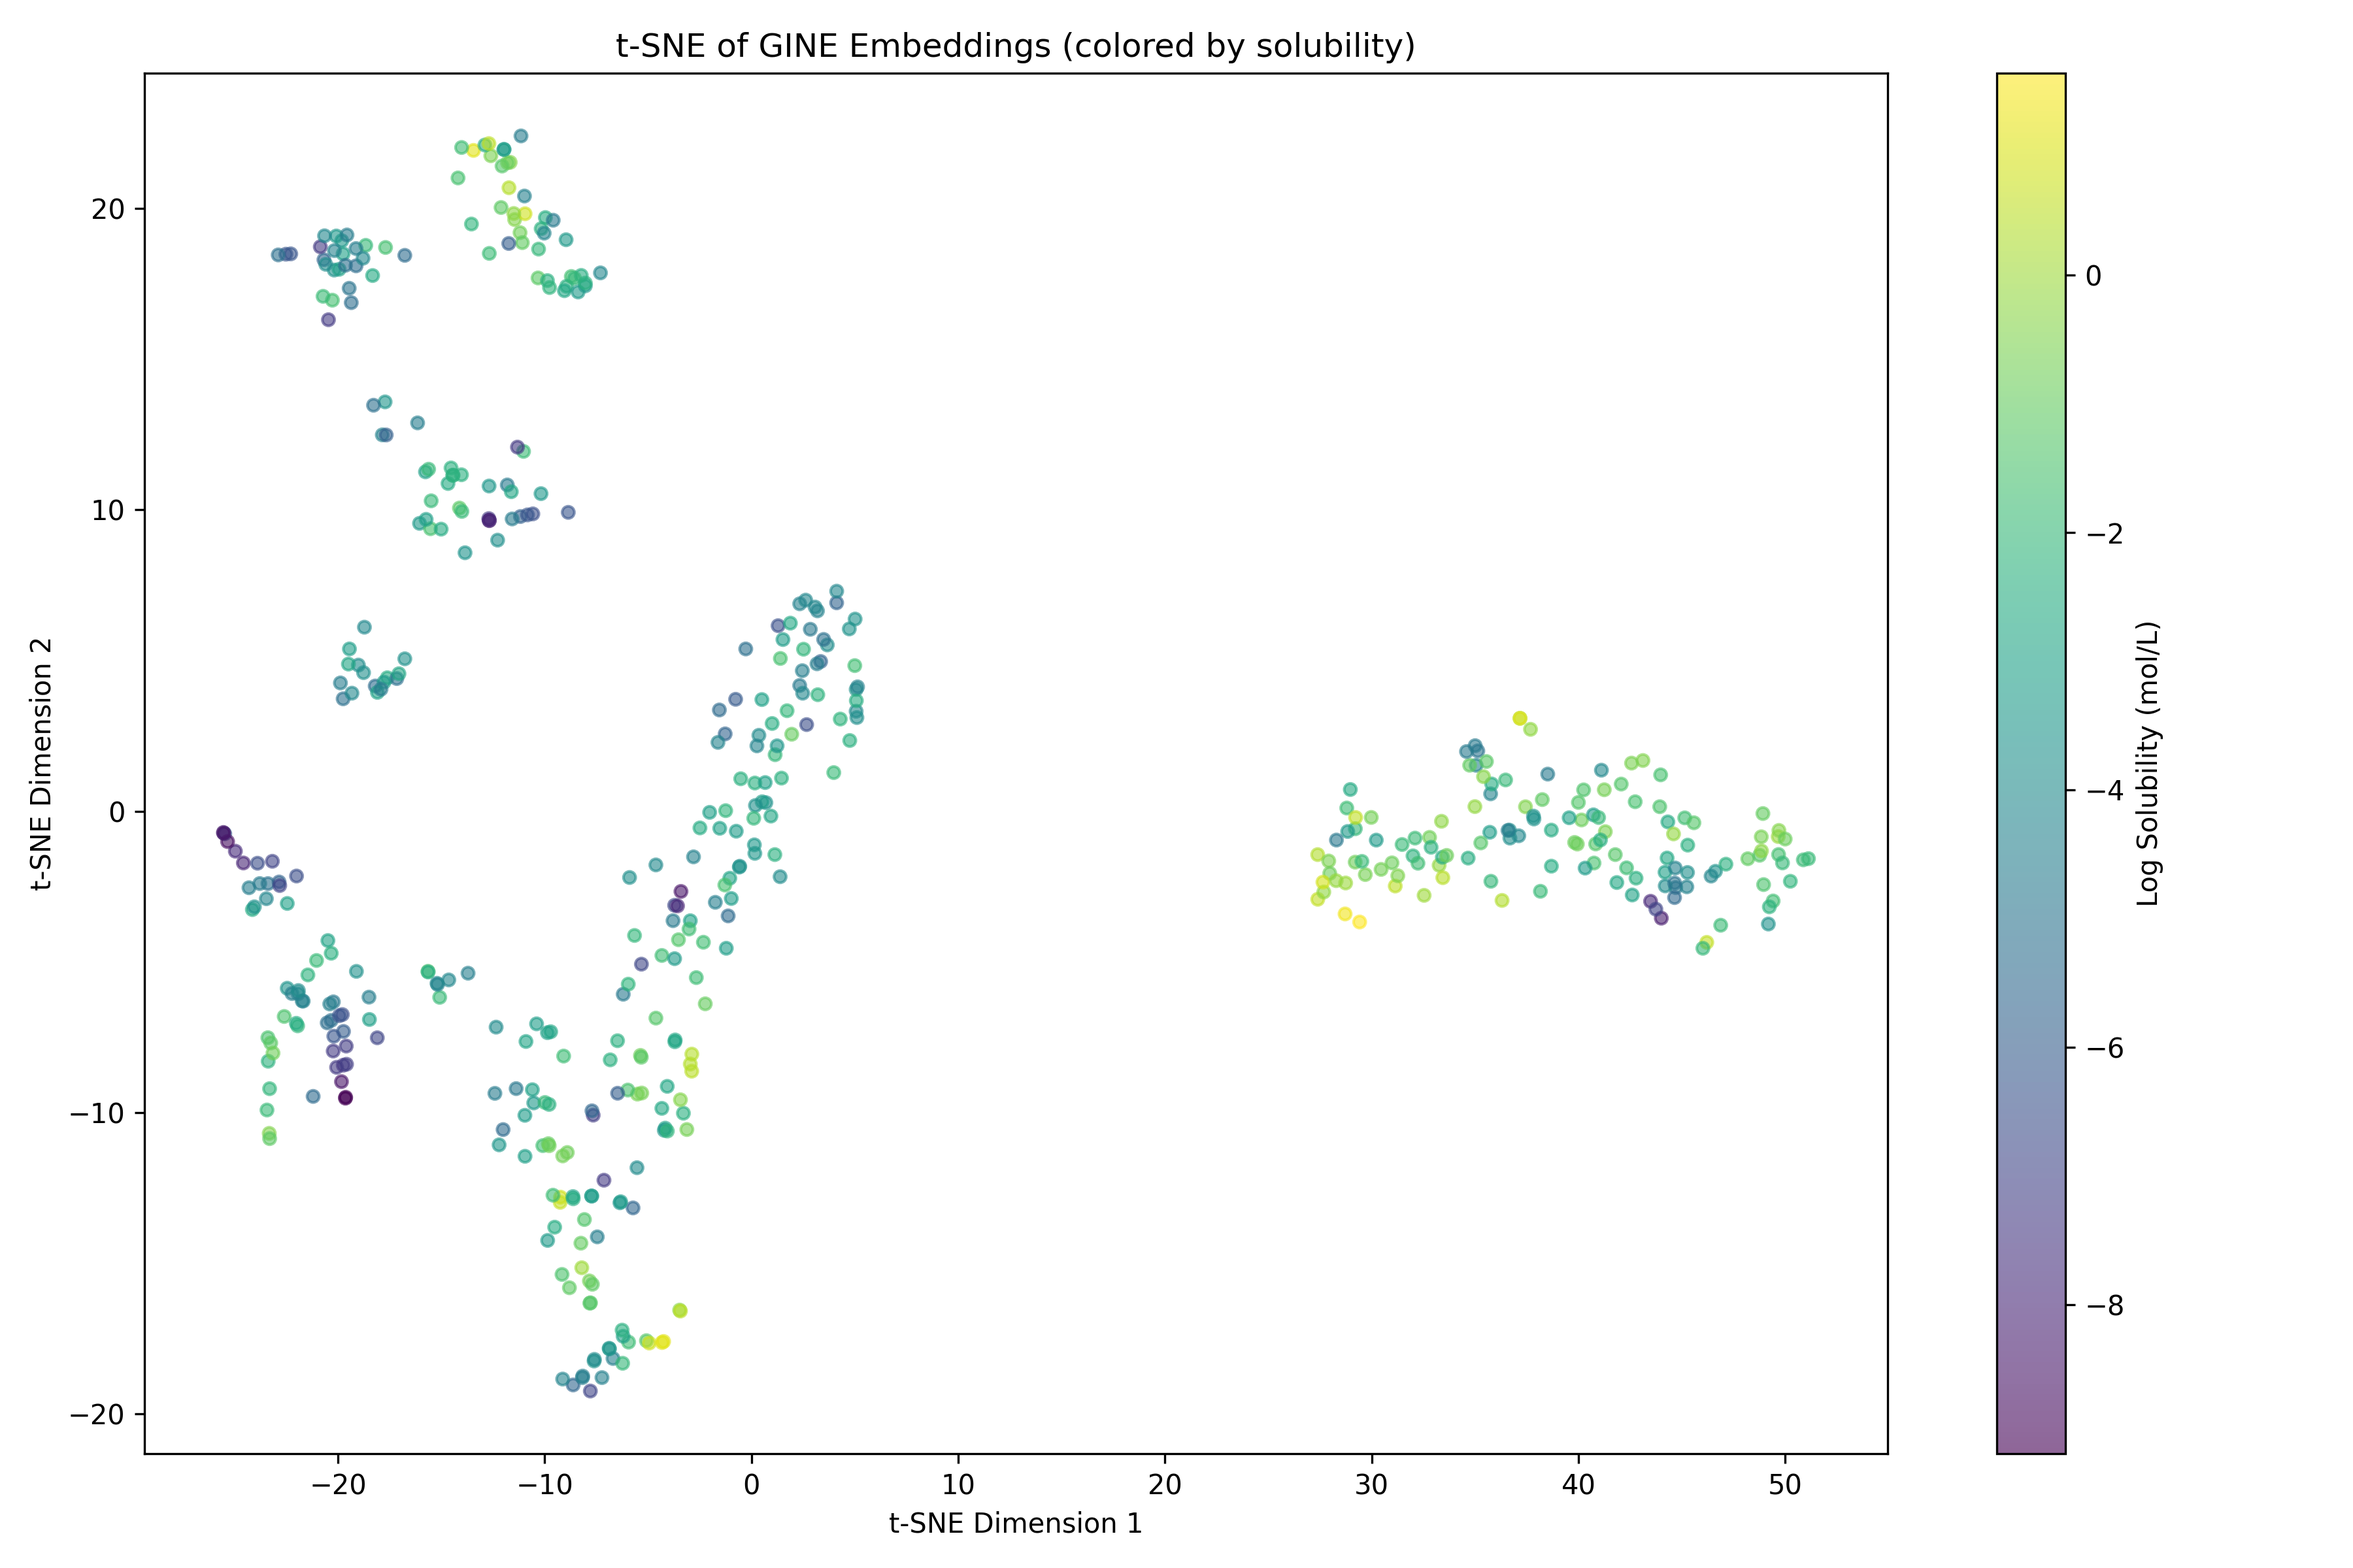
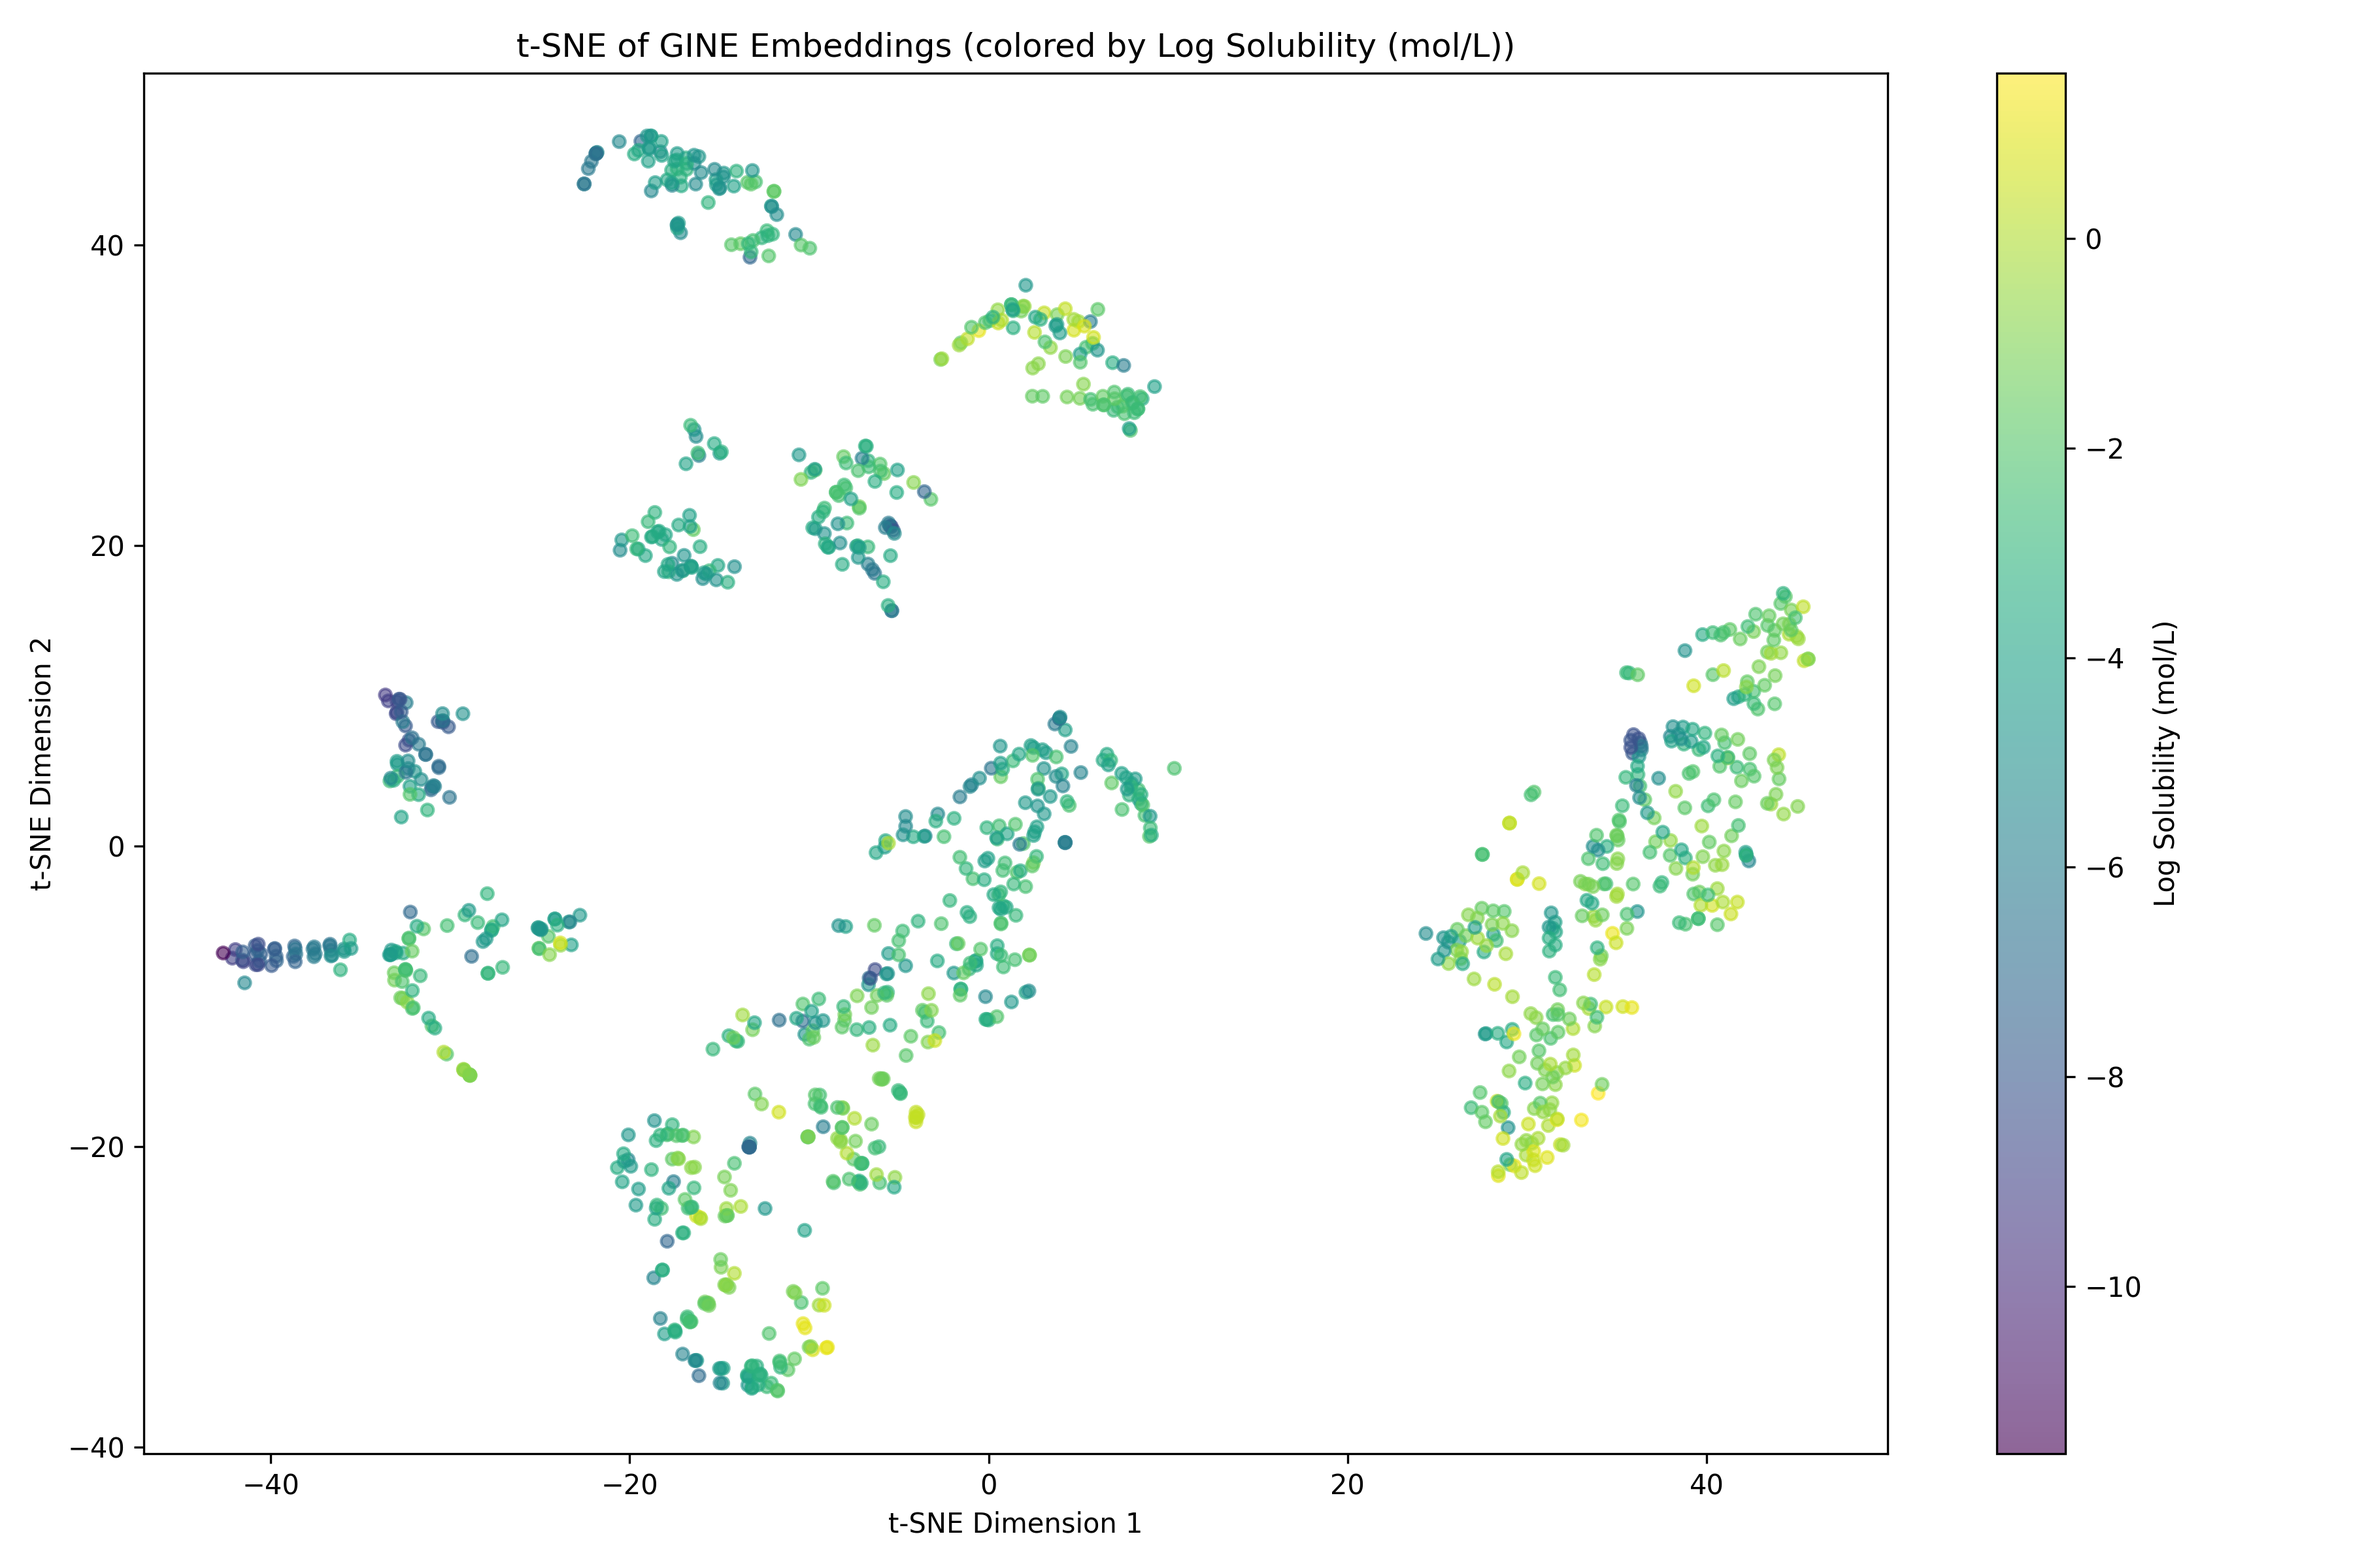
Fixed t sne plot for embeddings, now includes all samples in the small dataset.

diff --git a/plotting/t_sne_embeddings.py b/plotting/t_sne_embeddings.py
@@ -1,5 +1,12 @@
 """Generate t-SNE visualization of GINE model embeddings."""
 
+import sys
+from pathlib import Path
+
+# Add project root to Python path
+project_root = Path(__file__).parent.parent
+sys.path.insert(0, str(project_root))
+
 import torch
 import numpy as np
 from sklearn.manifold import TSNE
@@ -13,16 +20,32 @@ from datahandling.dataset_creation import SmilesCsvDataset
 
 def plot_tsne_embeddings(checkpoint_path: str, output_path: str = "tsne_embeddings.png", 
                         num_samples: int = 500, batch_size: int = 32, 
-                        random_state: int = 42, target=None, task=None, smiles_col = "smiles"):
+                        random_state: int = 42, target: str = None, task: str = "regression", 
+                        smiles_col: str = "smiles", color_label: str = None):
     """
     Generate and plot t-SNE visualization of GINE embeddings from a trained model.
     
     Parameters:
-    checkpoint_path (str): Path to the model checkpoint (.pth file)
-    output_path (str): Path to save the generated t-SNE plot
-    num_samples (int): Number of samples to use for t-SNE (limits computation time)
-    batch_size (int): Batch size for data loading
-    random_state (int): Random seed for reproducibility
+    -----------
+    checkpoint_path : str
+        Path to the model checkpoint (.pth file)
+    output_path : str, default="tsne_embeddings.png"
+        Path to save the generated t-SNE plot
+    num_samples : int, default=500
+        Number of samples to use for t-SNE (limits computation time)
+    batch_size : int, default=32
+        Batch size for data loading
+    random_state : int, default=42
+        Random seed for reproducibility
+    target : str, optional
+        Column name in CSV to use as target values for coloring points.
+        If None, all points will be colored uniformly.
+    task : str, default="regression"
+        Task type ('regression' or 'classification') - affects target data type loading
+    smiles_col : str, default="smiles"
+        Column name containing SMILES strings
+    color_label : str, optional
+        Label for the colorbar. If None and target is provided, uses target column name
     """
     # Load checkpoint
     checkpoint = torch.load(checkpoint_path, map_location="cpu", weights_only=False)
@@ -71,6 +94,7 @@ def plot_tsne_embeddings(checkpoint_path: str, output_path: str = "tsne_embeddin
     embeddings = []
     targets = []
     num_embeddings = 0
+    has_targets = target is not None
     
     with torch.no_grad():
         for batch_idx, batch in enumerate(loader):
@@ -79,7 +103,8 @@ def plot_tsne_embeddings(checkpoint_path: str, output_path: str = "tsne_embeddin
                 batch.x, batch.edge_index, batch.edge_attr, batch.batch
             )
             embeddings.append(batch_embeddings.cpu().numpy())
-            targets.append(batch.y.cpu().numpy().flatten())
+            if has_targets and batch.y is not None:
+                targets.append(batch.y.cpu().numpy().flatten())
             num_embeddings += batch_embeddings.shape[0]
             
             if num_embeddings >= num_samples:
@@ -87,7 +112,10 @@ def plot_tsne_embeddings(checkpoint_path: str, output_path: str = "tsne_embeddin
     
     # Concatenate and trim to specified number of samples
     embeddings = np.concatenate(embeddings)[:num_samples]
-    targets = np.concatenate(targets)[:num_samples]
+    if has_targets and targets:
+        targets = np.concatenate(targets)[:num_samples]
+    else:
+        targets = None
     
     print(f"✓ Extracted {embeddings.shape[0]} embeddings with dimension {embeddings.shape[1]}")
     
@@ -98,16 +126,29 @@ def plot_tsne_embeddings(checkpoint_path: str, output_path: str = "tsne_embeddin
     
     # Plot with targets as colors
     plt.figure(figsize=(12, 8))
-    scatter = plt.scatter(
-        embeddings_2d[:, 0], 
-        embeddings_2d[:, 1], 
-        c=targets, 
-        cmap='viridis', 
-        alpha=0.6, 
-        s=20
-    )
-    plt.colorbar(scatter, label='Log Solubility (mol/L)')
-    plt.title("t-SNE of GINE Embeddings (colored by solubility)")
+    
+    if targets is not None:
+        scatter = plt.scatter(
+            embeddings_2d[:, 0], 
+            embeddings_2d[:, 1], 
+            c=targets, 
+            cmap='viridis', 
+            alpha=0.6, 
+            s=20
+        )
+        label = color_label if color_label else target
+        plt.colorbar(scatter, label=label)
+        plt.title(f"t-SNE of GINE Embeddings (colored by {label})")
+    else:
+        plt.scatter(
+            embeddings_2d[:, 0], 
+            embeddings_2d[:, 1], 
+            alpha=0.6, 
+            s=20,
+            color='blue'
+        )
+        plt.title("t-SNE of GINE Embeddings")
+    
     plt.xlabel("t-SNE Dimension 1")
     plt.ylabel("t-SNE Dimension 2")
     plt.tight_layout()
@@ -118,8 +159,22 @@ def plot_tsne_embeddings(checkpoint_path: str, output_path: str = "tsne_embeddin
 
 
 if __name__ == "__main__":
-    # Example usage
+    # Example usage with target coloring
     model_name = "GINE_DINO"
     checkpoint_path = f"models/{model_name}/checkpoints/best_model.pth"
     output_path = f"models/{model_name}/tsne_embeddings.png"
-    plot_tsne_embeddings(checkpoint_path, output_path)
+    
+    # Generate t-SNE colored by solubility
+    plot_tsne_embeddings(
+        checkpoint_path, 
+        output_path,
+        target="measured log solubility in mols per litre",
+        color_label="Log Solubility (mol/L)",
+        task="regression"
+    )
+    
+    # Example: Generate t-SNE without coloring (just uncomment)
+    # plot_tsne_embeddings(
+    #     checkpoint_path,
+    #     f"models/{model_name}/tsne_embeddings_plain.png"
+    # )
